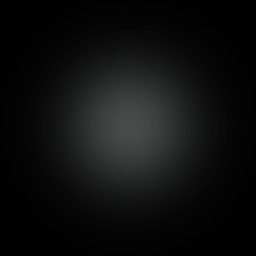
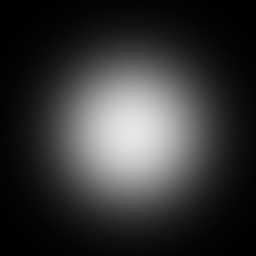
SFX Sabers updates

diff --git a/codemp/cgame/cg_xcvar.h b/codemp/cgame/cg_xcvar.h
@@ -426,7 +426,7 @@ XCVAR_DEF( ui_tm3_cnt,							"0",					NULL,					CVAR_ROM|CVAR_INTERNAL )
 // 7  = Ahsoka
 XCVAR_DEF( cg_SFXSabers,						"3",					NULL,					CVAR_ARCHIVE ) // Niksata Edit
 XCVAR_DEF( cg_SFXSabersGlowSizeTPM,				"0.9",					NULL,					CVAR_ARCHIVE ) // Niksata Edit
-XCVAR_DEF( cg_SFXSabersGlowSizeAOTC,			"1",					NULL,					CVAR_ARCHIVE ) // Niksata Edit
+XCVAR_DEF( cg_SFXSabersGlowSizeAOTC,			"0.9",					NULL,					CVAR_ARCHIVE ) // Niksata Edit
 XCVAR_DEF( cg_SFXSabersGlowSizeROTS,			"0.9",					NULL,					CVAR_ARCHIVE ) // Niksata Edit
 XCVAR_DEF( cg_SFXSabersGlowSizeOT,				"1.6",					NULL,					CVAR_ARCHIVE ) // Niksata Edit
 XCVAR_DEF( cg_SFXSabersGlowSizeMcquarrie,		"1",					NULL,					CVAR_ARCHIVE ) // Niksata Edit
@@ -434,7 +434,7 @@ XCVAR_DEF( cg_SFXSabersGlowSizeAhsoka,			"1.1",					NULL,					CVAR_ARCHIVE ) // 
 XCVAR_DEF( cg_SFXSabersCoreSizeTPM,				"0.9",					NULL,					CVAR_ARCHIVE ) // Niksata Edit
 XCVAR_DEF( cg_SFXSabersCoreSizeAOTC,			"0.9",					NULL,					CVAR_ARCHIVE ) // Niksata Edit
 XCVAR_DEF( cg_SFXSabersCoreSizeROTS,			"0.9",					NULL,					CVAR_ARCHIVE ) // Niksata Edit
-XCVAR_DEF( cg_SFXSabersCoreSizeOT,				"1.1",					NULL,					CVAR_ARCHIVE ) // Niksata Edit
+XCVAR_DEF( cg_SFXSabersCoreSizeOT,				"1.035",				NULL,					CVAR_ARCHIVE ) // Niksata Edit
 XCVAR_DEF( cg_SFXSabersCoreSizeMcquarrie,		"2",					NULL,					CVAR_ARCHIVE ) // Niksata Edit
 XCVAR_DEF( cg_SFXSabersCoreSizeAhsoka,			"1",					NULL,					CVAR_ARCHIVE ) // Niksata Edit
 XCVAR_DEF( cg_SFXSabersOTrestored,				"1",					NULL,					CVAR_ARCHIVE ) // Niksata Edit

diff --git a/codemp/cgame/cg_players.c b/codemp/cgame/cg_players.c
@@ -6235,7 +6235,7 @@ static void CG_RGBForSaberColorTPMTheatrical(saber_colors_t color, vec3_t rgb, i
 		VectorSet(rgb, 0.259f, 0.573f, 0.267f);  // 429244
 		break;
 	case SABER_BLUE:
-		VectorSet(rgb, 0.020f, 0.200f, 0.475f);  // 053379
+		VectorSet(rgb, 0.035f, 0.200f, 0.467f);  // 093377
 		break;
 	case SABER_PURPLE:
 		VectorSet(rgb, 0.451f, 0.235f, 0.588f);  // 733c96
@@ -11575,7 +11575,7 @@ JustDoIt:
 				fx.mShader = cgs.media.ShaderSaberTrail;
 			}
 		} // Niksata Edit
-
+		/*
 		// Niksata Edit - Per-style SFX saber trail colors
 		switch (cg_SFXSabers.integer)
 		{
@@ -11610,7 +11610,7 @@ JustDoIt:
 		default:
 			break;
 		}
-
+		*/
 		fx.mKillTime = 2;
 		fx.mSetFlags = FX_USE_ALPHA;
 
